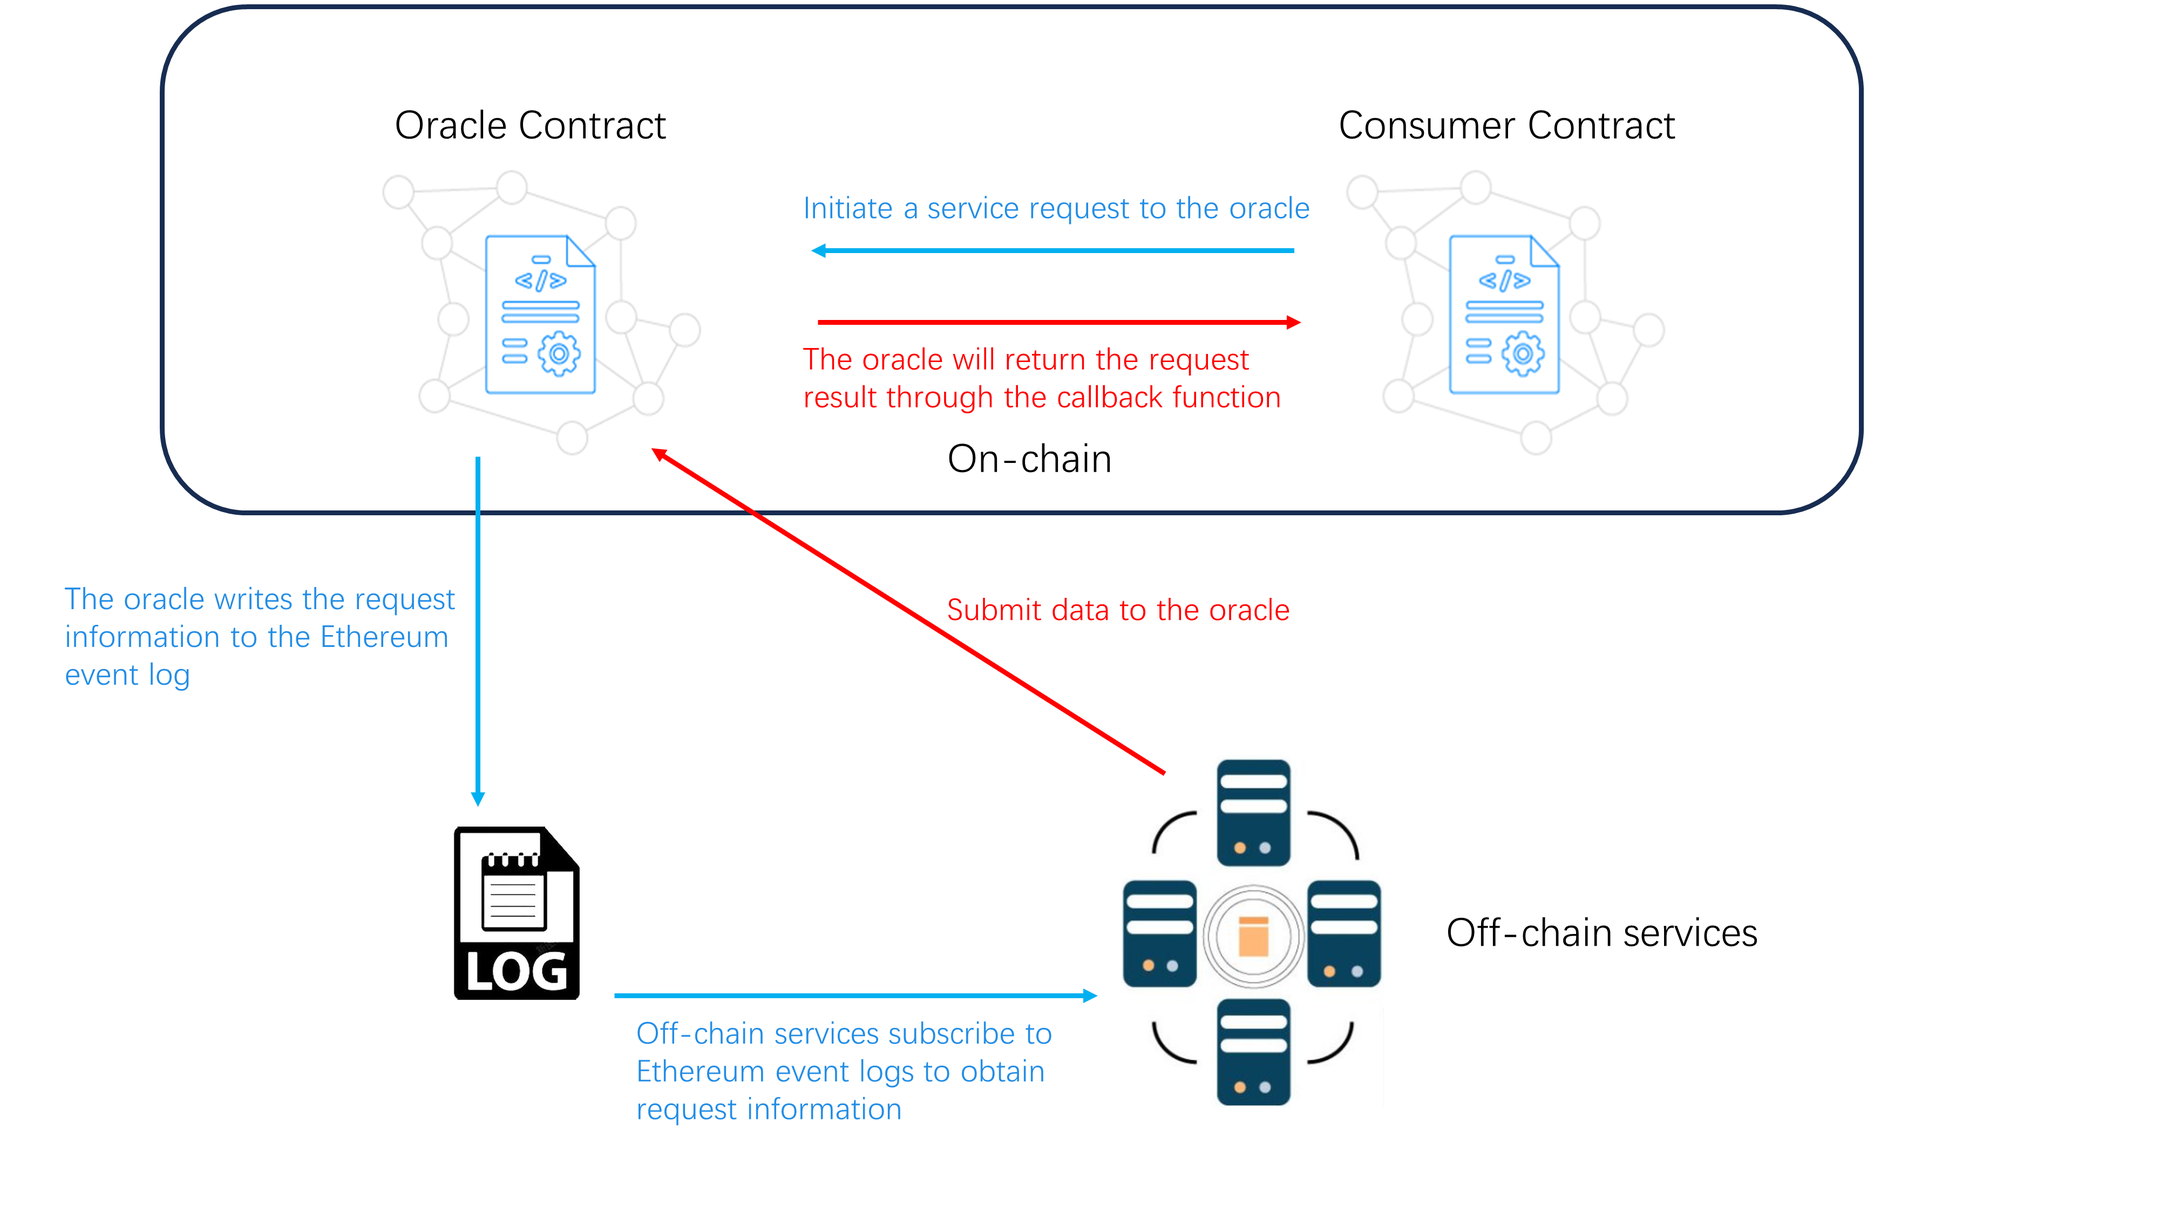
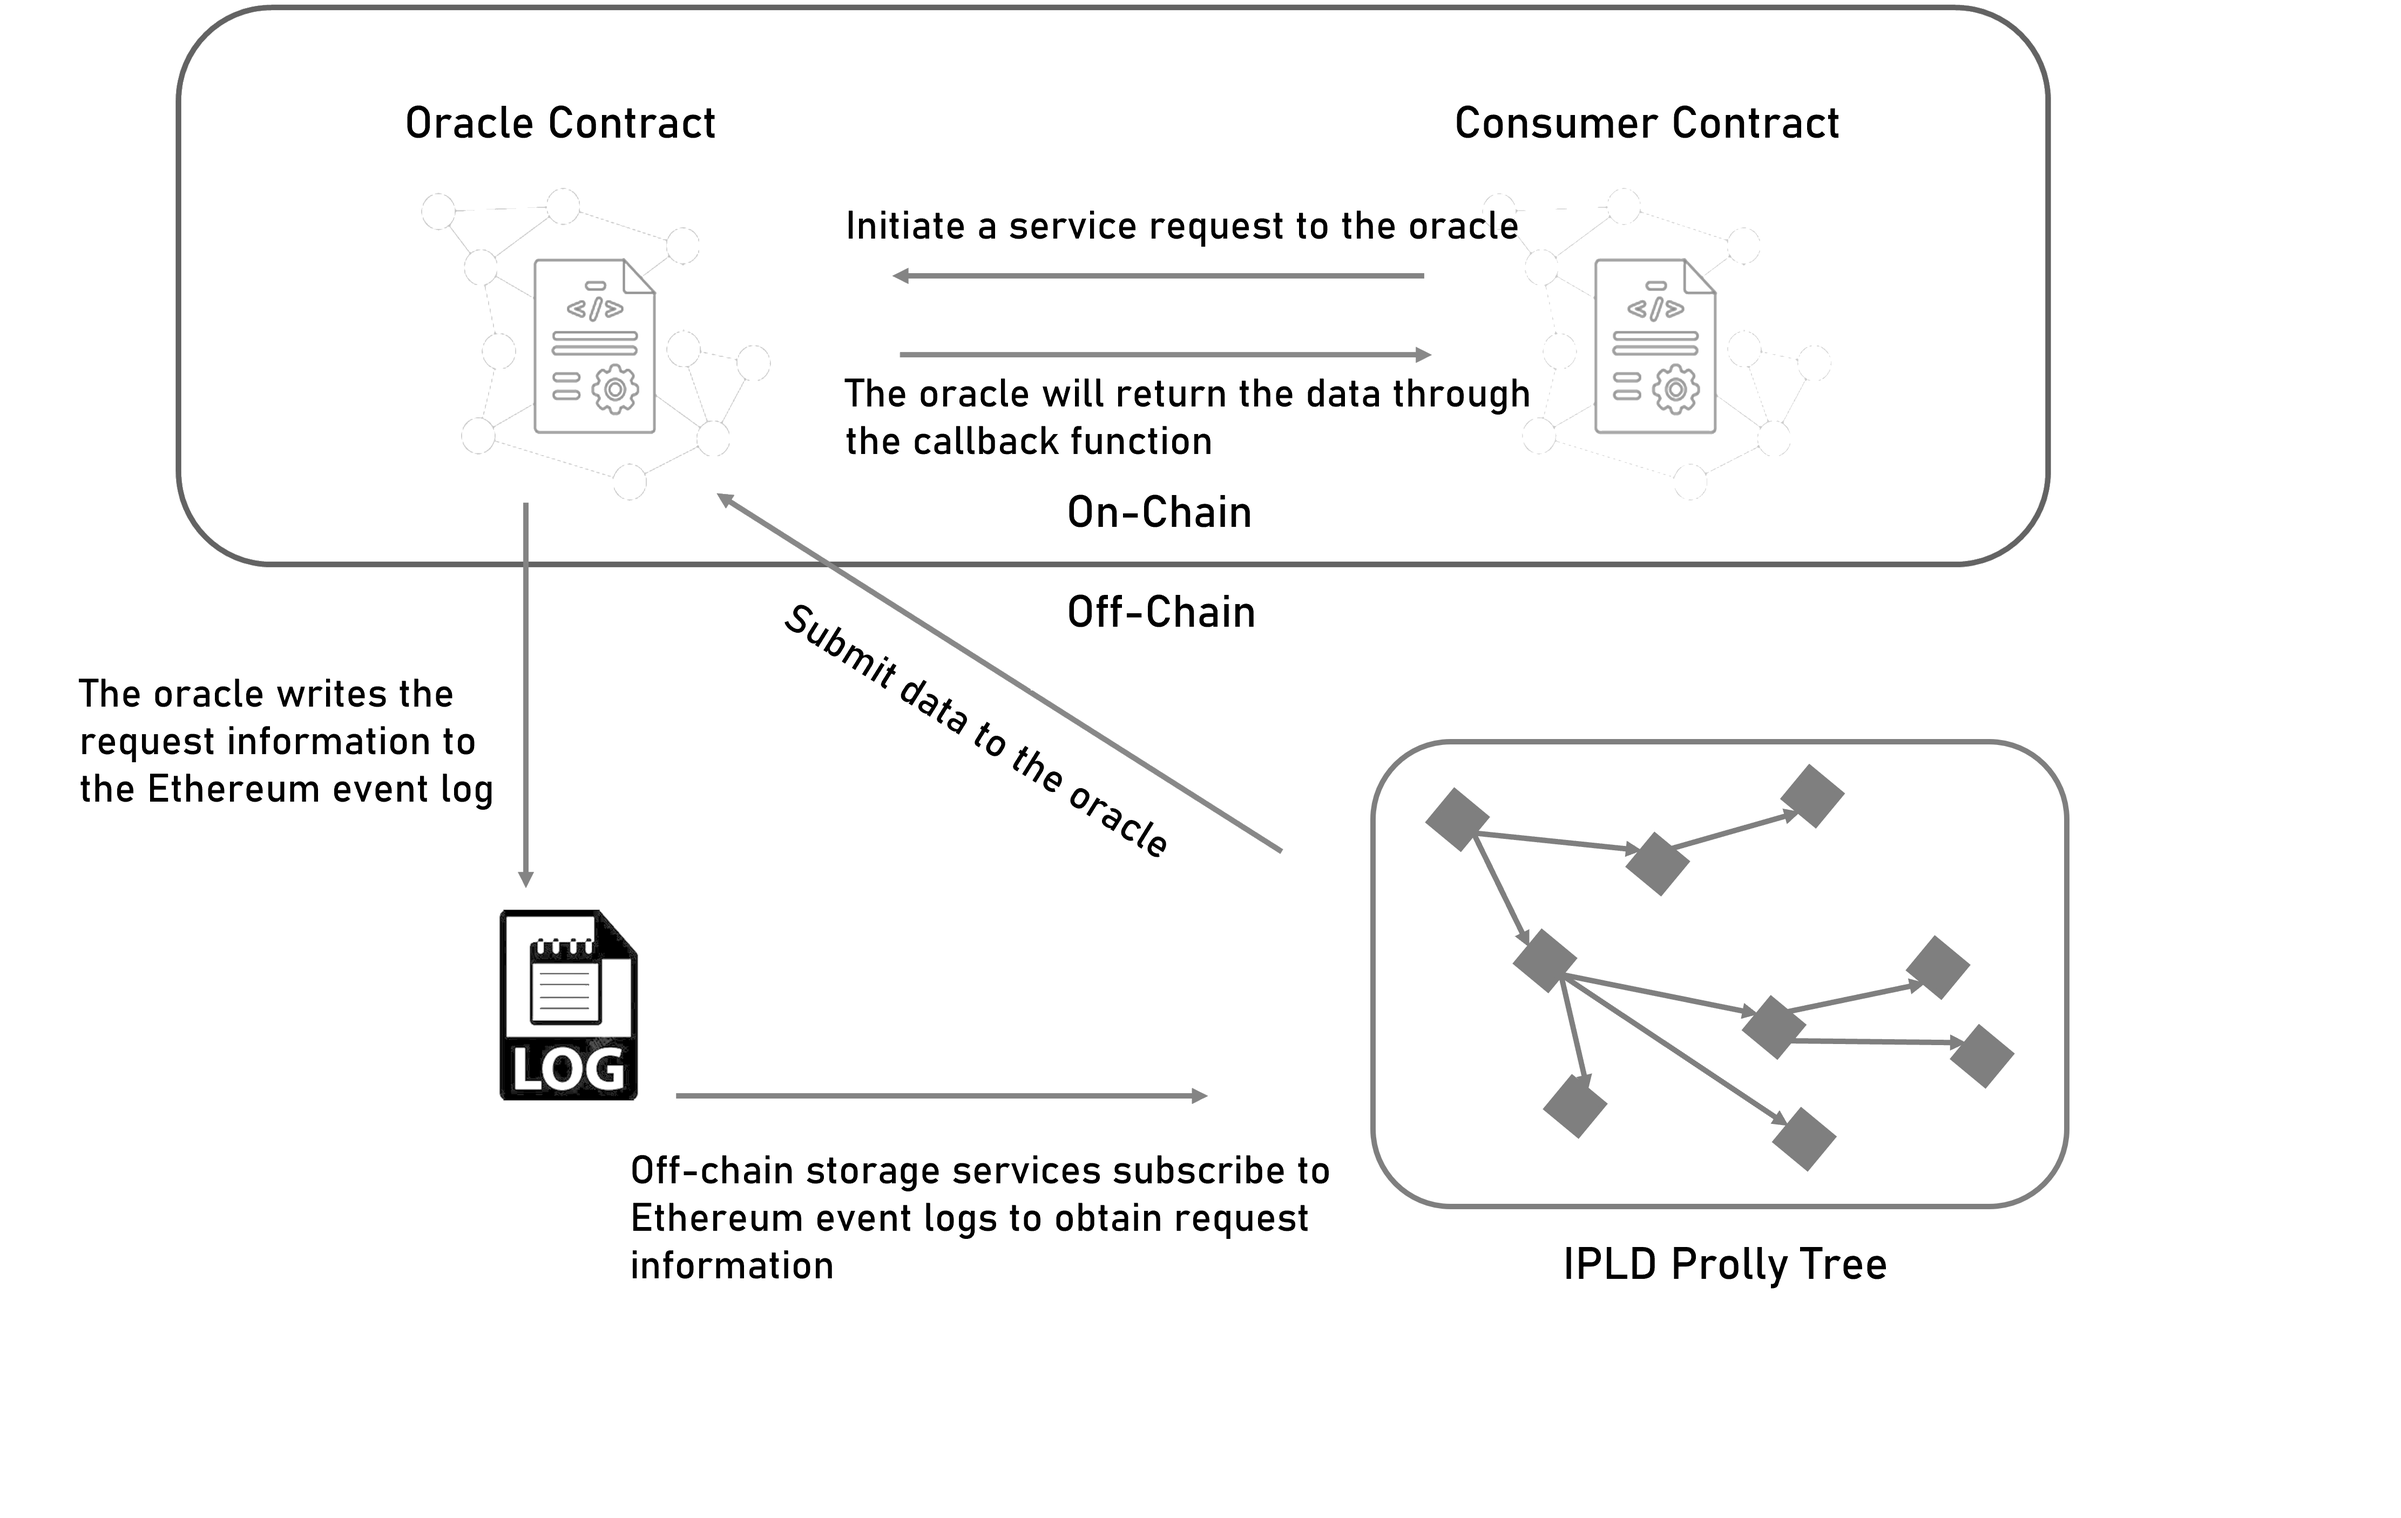
update readme

diff --git a/README.md b/README.md
@@ -29,332 +29,65 @@
 * search(id, collection, query {equals, sort, limit, skip})
 
 ## Architecture
+Blockchain and decentralized applications (DApps) are increasingly important for establishing trust and transparency in data storage and computing. 
+However, on-chain transactions are often costly and slow. To overcome this challenge, off-chain nodes can be used to store and compute data. 
+Blockchain oracles are introduced and implemented in the form of application programming interfaces (APIs) to connect the real world to the blockchain. 
+Prolly Tree Oracle connects the IPLD Prolly Tree storage service to the blockchain, allowing users to store large amounts of data off-chain at a fraction of the cost while enjoying the transparency and security brought by the blockchain.
+
 ![](/sources/Architecture.png)
 
 
 ## API Implementation:
-* **function Create(string dbName, string primaryKey)**<br>
-To initialize a new database, you need to provide the name and primary key of the database. 
-<br>There can be multiple primary keys, separated by ",".<br>
-**NOTE:** <br>
-   1.  The owner of db is obtained by "msg.sender" when calling the Create method and does not need to be used as a parameter.<br>
-   2.  The interface for creating a new db by polly-tree-indexer does not require config, so the parameters of the API only require "dbName" and "PrimaryKey"<br>
+* **function Create(string calldata cid, string calldata colName, string calldata primaryKey)**  
+Creates a new collection named `colName` in the database pointed to by the provided `cid`. When you try to create a collection in someone else's database , you need write permission. When `cid` is not provided, a new database is created by default.
+There can be multiple primary keys, separated by `,`.
 
 
-* **function AllowWrite(string dbName, address to)**<br>
-  Grant user "to" read and write permissions on database "dbName".<br>
-**NOTE:**<br>
-  1. When authorizing, in addition to providing the authorized user, you should also provide the authorized db<br>
+* **function AllowWrite(address to)**  
+Grant user `to` read and write permissions on your database.
 
 
-* **Put(string dbName, bytes data)**<br>
-  Save json data "data" to database "dbName".<br>
-  **NOTE:**<br>
-  1. When putting data, the collection can be obtained through "dbName" and does not require "PrimaryKey"
+* **function Put(string calldata cid, string calldata colName, bytes calldata data)**  
+  Save the data `data` to the `colName` collection in the database pointed to by `cid`.
   
-
-* **Get(string dbName, bytes recordID, string callBack)**<br>
-  To obtain data from database "dbName" based on "recordID", you need to provide a callback function to receive data.<br>
-  For example, the callback function I defined in the consumer contract is:`function CallBackFunc(bytes calldata data)`.<br>
-  So, the callBack parameter of string type is `"CallBackFunc(bytes)"`.<br>
-  **NOTE:**<br>
-  1. The get method of polly-tree-indexer obtains data through "recordID"
-  2. The collection can be obtained through "dbName"
-  3. Need to provide a callback function to receive data
+* **function Get(string calldata cid, string calldata colName, bytes calldata recordID, string calldata callBack)**  
+  Get data from the `colName` collection in the database pointed to by `cid` according to `recordID`. You need to provide a callback function to receive the data. 
+  For example, the callback function I defined in the consumer contract is:`function CallBackFunc(bytes calldata data)`.  So, the callBack parameter of string type is ``CallBackFunc(bytes)``.  
 
 
-* **Index(string dbName, string index)**<br>
-  Add index "index" to database "dName".<br>
-  **NOTE:**<br>
-  1. The collection can be obtained through "dbName"
+* **function Index(string calldata cid, string calldata colName, string calldata idx)**  
+  Add index `idx` to the `colName` collection in the database pointed to by `cid`
 
 
-* **Search(string dbName, SearchController Val, string Method, string callBack)**<br>
-  Obtain data through the "method" method in the database "dName", methods:`{equal, compare, sort, limit, skip}`<br>
-  **NOTE:**<br>
-  1. The collection can be obtained through "dbName"<br>
-  2. Need to provide a callback function to receive data
-  3. Values of multiple data types may be used when searching, so "SearchController" is added and "mehod" is used to indicate the search method.
-  
-  You need to provide a "SearchController", defined as follows:<br>
-````
-struct SearchController{
-        string k; // The key for search
-        
-        // The value used for search,
-        // Select the appropriate member according to the type of value
-        string str;
-        int64 integer;
-        uint64 uinteger;
-        bytes bytess;
-        bool boolean;
+* **function Search(string calldata cid, string calldata colName, bytes calldata querys, string calldata callBack)**  
+  Use `index.Query` to query data from the `colName` collection in the database pointed to by `cid`. When using it, you can build one or more `index.Query` objects, and serialize the `index.Query` object array into `json` as the parameter `queries`. Query methods:`{equal, compare, sort, limit, skip}` 
 
-        string DataType; // The type of value, assigned as "string", "int", "uint", "bytes" or "bool",
-        string comOp; // When the search method is compare, you need to provide compare optiong: "GreaterThan" or "LessThan"
-    }
-````
-Similarly, a callback function needs to be provided to receive data<br>
+  Similarly, a callback function needs to be provided to receive data  
+
+* **function GetRootCid()**
+
+  Get the `RootCid` of the database of the method caller
+
+* **function GetIndex(string calldata cid, string calldata colName, string calldata callBack)**
+
+  Get the index of the `colName` collection in the database pointed to by `cid`
+
+  Similarly, a callback function needs to be provided to receive an array of collection indexes
+
+* **function GetCol(string calldata cid, string calldata callBack)**
+
+  Get all collections in the database pointed to by `cid`
+  Similarly, a callback function needs to be provided to receive an array of collection names
 
 
 # Usage
 ### [Click here to learn how to start the service](https://www.youtube.com/watch?v=_T4nLVJaQ5k)
 ## Consumer Contract
-```
-// SPDX-License-Identifier: UNLICENSED
-pragma solidity ^0.8.0;
 
-import {Oracle} from "./oracle.sol";
+The **Consumer Contract** used for testing is located at `contracts/test.sol`
 
-contract OracleTest{
-    Oracle public or;
-    function setOracle(address add) public{
-        or = Oracle(add);
-    }
-    //allow a address write
-    function AllowWrite(string calldata dbName, address to) external{
-        or.AllowWrite(dbName,to);
-    }
-
-    //creat a new db
-    function Create(string calldata dbName, string calldata primaryKey) external{
-        or.Create(dbName,primaryKey);
-    }
-
-    // put data to db
-    function Put(string calldata dbName, bytes calldata data) external{
-        or.Put(dbName,data);
-    }
-
-    //get data from db
-    function Get(string calldata dbName, bytes calldata recordID, string calldata callBack) external{
-        or.Get(dbName,recordID,callBack);
-    }
-
-    //creat index
-    function Index(string calldata dbName, string calldata Key) external{
-        or.Index(dbName,Key);
-    }
-    
-    //query by {equals, compare, sort, limit, skip}
-    function Search(string calldata dbName, Oracle.SearchController calldata Val, string calldata Method, string calldata callBack) external{
-        or.Search(dbName,Val,Method,callBack);
-    }
-
-    // catch data and emit event
-    event CatchData(bytes data);
-    function CBFunc(bytes calldata data) external{
-        //You can process the obtained data here.
-        emit CatchData(data);
-    }
-
-}
-```
 Compile the **Consumer Contract** to obtain the ABI file, and use the ***[abigen](https://geth.ethereum.org/docs/tools/abigen)*** to generate **Golang package** corresponding to the contract:
 `abigen --abi={ Path to abi.json } --pkg={ Package name } --out={ The path to the generated .go file }`
+
 ## Golang Client
-Use a Golang test program to call the request function in the Consumer Contract for testing the oracle.
-```
-package test
-
-import (
-	"Oracle.com/golangServer/Oracle"
-	"Oracle.com/golangServer/config"
-	"Oracle.com/golangServer/test/testContract"
-	"context"
-	"crypto/ecdsa"
-	"github.com/ethereum/go-ethereum/accounts/abi/bind"
-	"github.com/ethereum/go-ethereum/common"
-	"github.com/ethereum/go-ethereum/crypto"
-	"github.com/ethereum/go-ethereum/ethclient"
-	"log"
-	"math/big"
-	"os"
-	"os/signal"
-	"syscall"
-	"testing"
-	"time"
-)
-
-const (
-	URL                 = "ws://127.0.0.1:8545"
[1 lines of base64/hex data omitted]
-	OracleAddress       = "0x825E9Ec368aE314949FD60D098e3C616cCBcD0BF"
-	TestContractAddress = "0xf6C221Caa234D3b1D7AB0e2Aa228bE532ce7f710"
-	ChainID             = 1337
-)
-
-var (
-	Client *ethclient.Client
-
-	PrivateKey *ecdsa.PrivateKey
-
-	toc *OracleTest.OracleTest
-
-	GasLimit uint64 = 300000
-)
-
-func TestOracle(t *testing.T) {
-	InitClient()
-	tps := GenTransactOpts(GasLimit)
-	var err error
-
-	_, err = toc.SetOracle(tps, common.HexToAddress(OracleAddress))
-	if err != nil {
-		log.Println("Failed to send transaction: ", err)
-	}
-
-	dbName := "users"
-	// create memory db
-	_, err = toc.Create(tps, dbName, "name")
-	if err != nil {
-		log.Println("Failed to send transaction: ", err)
-	}
-	time.Sleep(time.Second * 2)
-
-	//create index in age field
-	_, err = toc.Index(tps, dbName, "age")
-	if err != nil {
-		log.Println("Failed to send transaction: ", err)
-	}
-
-	time.Sleep(time.Second * 2)
-
-	// put data
-	data := []byte(`{"name":"Alice", "age": 18}
-					{"name":"Bob", "age": 19}
-					{"name":"Albert", "age": 20}
-					{"name":"Clearance and Steve", "age":18}`)
-	_, err = toc.Put(tps, dbName, data)
-	if err != nil {
-		log.Println("Failed to send transaction: ", err)
-	}
-
-	time.Sleep(time.Second * 2)
-
-	//get data
-	recordID := []byte{129, 99, 66, 111, 98}
-	_, err = toc.Get(tps, dbName, recordID, "CBFunc(bytes)")
-	if err != nil {
-		log.Println("Failed to send transaction: ", err)
-	}
-
-	time.Sleep(time.Second * 2)
-
-	//search data
-	val1 := OracleTest.OracleInterfaceSearchController{K: "name", Str: "Bob", DataType: "string"}
-	_, err = toc.Search(tps, dbName, val1, "equal", "CBFunc(bytes)")
-	if err != nil {
-		log.Println("Failed to send transaction: ", err)
-	}
-	val2 := OracleTest.OracleInterfaceSearchController{K: "age", Integer: 20, DataType: "int"}
-	_, err = toc.Search(tps, dbName, val2, "equal", "CBFunc(bytes)")
-	if err != nil {
-		log.Println("Failed to send transaction: ", err)
-	}
-
-	time.Sleep(time.Second * 2)
-
-	//allowWrite
-	ADD := "0x00C696904c0CCE30D19704A762035Eb67eC3580C"
-	_, err = toc.AllowWrite(tps, dbName, common.HexToAddress(ADD))
-	if err != nil {
-		log.Println("Failed to send transaction: ", err)
-	}
-
-	sigs := make(chan os.Signal, 1)
-	signal.Notify(sigs, syscall.SIGINT, syscall.SIGTERM)
-	sig := <-sigs
-	log.Printf("Received signal %s, exiting...\n", sig)
-	os.Exit(0)
-
-}
-
-func InitClient() {
-	var err error
-	Client, err = ethclient.Dial(URL)
-	if err != nil {
-		log.Fatalf("Failed to connect to the Ethereum client: %v", err)
-	}
-
-	PrivateKey, err = crypto.HexToECDSA(UserPrimaryKey[2:]) // Remove prefix "0x"
-	if err != nil {
-		log.Fatalf("Invalid private key: %v", err)
-	}
-
-	// Convert string address to `common.Address` type
-	contractAddr := common.HexToAddress(TestContractAddress)
-	// Create a new instance using the contract address and client
-	toc, err = OracleTest.NewOracleTest(contractAddr, Client)
-	if err != nil {
-		log.Fatalf("Failed to instantiate a Oracle contract: %v", err)
-	}
-	go RspListener()
-	go CatchListener()
-}
-
-func RspListener() {
-	cli, err := ethclient.Dial(URL)
-	if err != nil {
-		log.Fatalf("Failed to connect to the Ethereum client: %v", err)
-	}
-
-	contractAddr := common.HexToAddress(OracleAddress)
-	OOOC, err := Oracle.NewOracle(contractAddr, cli)
-	// Create channels for logs
-	Logs := make(chan *Oracle.OracleReqState)
-	// Subscribe to each event
-	opts := &bind.WatchOpts{Context: context.Background(), Start: nil}
-	eventSub, err := OOOC.WatchReqState(opts, Logs)
-	if err != nil {
-		log.Fatal("Failed to subscribe to Create events:", err)
-	}
-	// start Listening...
-	log.Println("RspListener is Listening ...")
-	for {
-		select {
-		case err := <-eventSub.Err():
-			log.Println("[Error in Event CREAT]:", err)
-		case event := <-Logs:
-			log.Printf("[Rsp: %v]  state: %v  info: %v", event.ReqID, event.Statement, event.Info)
-		}
-	}
-}
-
-func CatchListener() {
-	// Get channels for logs
-	Logs := make(chan *OracleTest.OracleTestCatchData)
-	// Subscribe to each event
-	opts := &bind.WatchOpts{Context: context.Background(), Start: nil}
-	eventSub, err := toc.WatchCatchData(opts, Logs)
-	if err != nil {
-		log.Fatal("Failed to subscribe to Get events:", err)
-	}
-	// start Listening...
-	log.Println("CatchDataListener Listening ...")
-	for {
-		select {
-		case err := <-eventSub.Err():
-			log.Println("[Error in Event CREAT]:", err)
-		case event := <-Logs:
-			log.Println("Received data: ", string(event.Data))
-		}
-	}
-}
-
-func GenTransactOpts(GasLimit uint64) *bind.TransactOpts {
-	// Generate TransactOpts from private key
-	auth, err := bind.NewKeyedTransactorWithChainID(PrivateKey, big.NewInt(ChainID))
-	if err != nil {
-		log.Fatalf("Failed to create authorized transactor: %v", err)
-	}
-
-	// Set gas prices and gas limits, these can be set more intelligently through client queries
-	gasPrice, err := Client.SuggestGasPrice(context.Background())
-	if err != nil {
-		log.Fatalf("Failed to suggest gas price: %v", err)
-	}
-	auth.GasPrice = gasPrice
-	auth.GasLimit = GasLimit
-	return auth
-}
-```
+Use a Golang test program `golangServer/test/Oracle_test.go` to call the request function in the Consumer Contract for testing the oracle.
